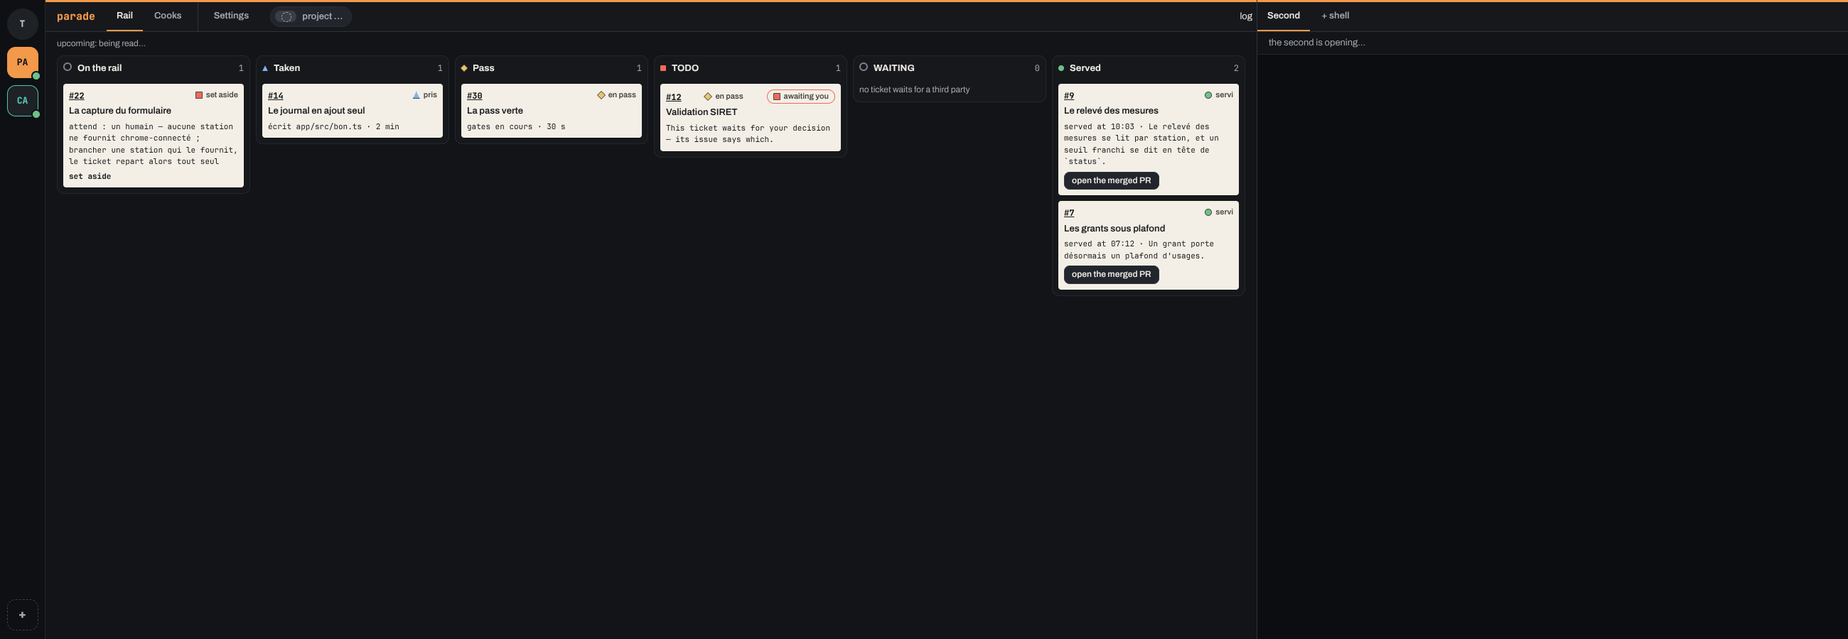
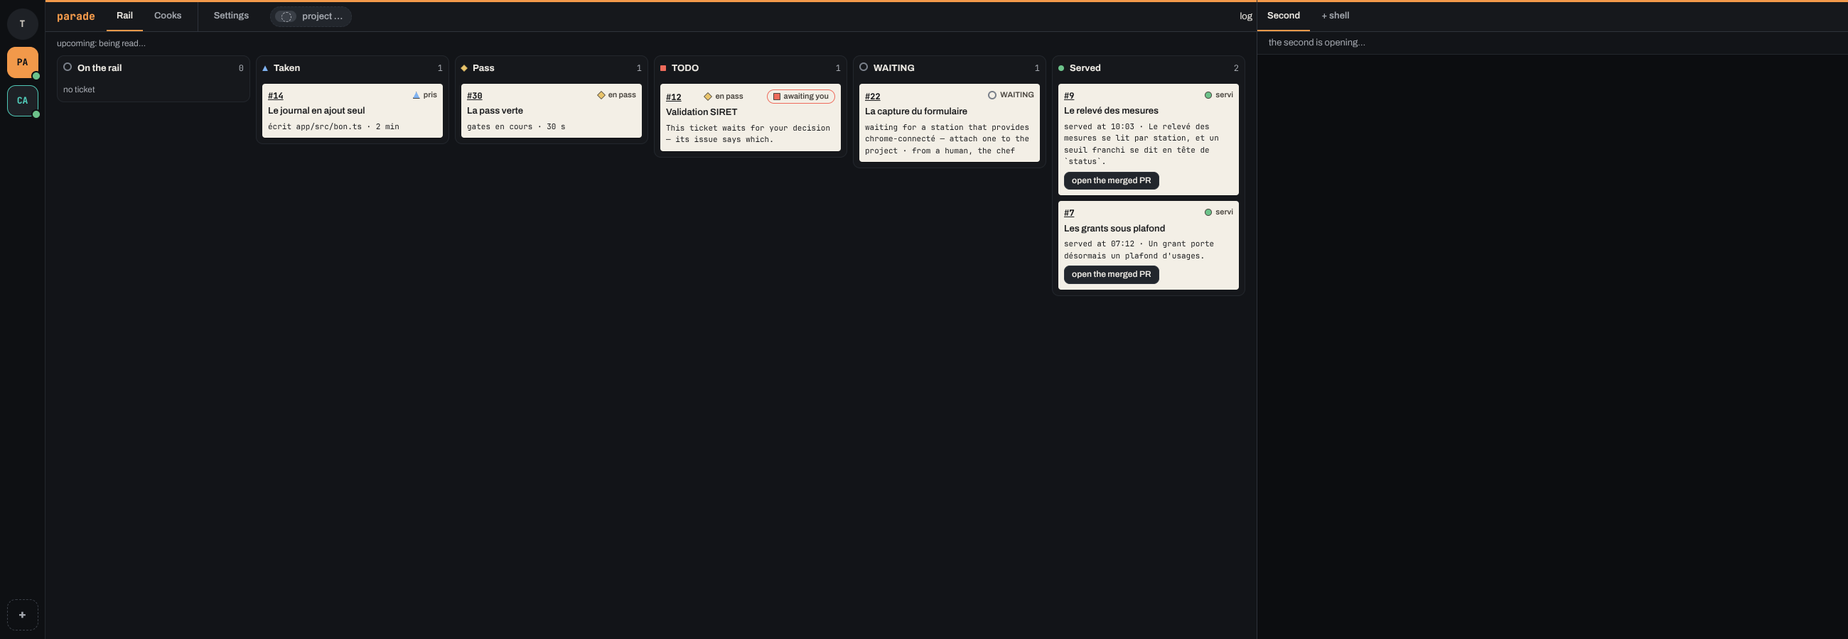
fix(#1752): a card set aside for want of a station reads as WAITING, with what it awaits — the chef's answer to the gesture-is-a-button rule

Changed region(s): [[0.0312, 0.1244, 0.1558, 0.3111], [0.4673, 0.1244, 0.5608, 0.28]]

diff --git a/runtime/src/etat.ts b/runtime/src/etat.ts
@@ -50,7 +50,7 @@ import { arreteeDepuis, cookDeRun, cooksEnCoursDeStation, direDeconnexionEn, dir
 import { avecHorsZoneEn, BLOQUE, BLOQUE_EN, direRetenueEn, EN_WAITING, etatLu, etatLuEn, nomEtat, nomEtatEn } from "./rail.ts";
 import { PAR_LE_CHEF } from "./events/rail.ts";
 import { direAttenteDeTiersEn } from "./attente.ts";
-import { direMiseDeCote } from "./mise-de-cote.ts";
+import { attenteDUneStation, direMiseDeCote } from "./mise-de-cote.ts";
 import { GESTE_DE_STATION_A_CHAUD_EN } from "./stations-declarees.ts";
 import { prendLesOrdinaires } from "./bac-a-sable/ordinaires.ts";
 import type { Refus } from "./projets/refus.ts";
@@ -798,7 +798,10 @@ export type Faits = {
   // `tiers` : pour un ticket en WAITING, ce qu'il attend d'un tiers — `quoi`
   // dans les mots du chef, `qui`, `depuis` (sa mise en attente), `relance` (quand
   // y revenir) et `aLArrivee` (ce que « c'est arrivé » fera de lui) ; nul pour
-  // tout autre ticket ; `revenu` — pour un ticket revenu de WAITING dans TODO,
+  // tout autre ticket. Un ticket mis de côté faute de station y est aussi (1752) :
+  // son attente est une action que le chef ne fait pas par un bouton, brancher une
+  // station ; `relance` est nulle — personne ne l'a posé, rien à reprendre ni à
+  // renvoyer —, et `aLArrivee` dit qu'il repart seul ; `revenu` — pour un ticket revenu de WAITING dans TODO,
   // pourquoi, dans les mots du runtime (« relance du 21/10 : pas de réponse »,
   // « nouveau sur l'issue — de <qui> ») ; `null` pour tout autre, et pour celui que
   // le chef a repris lui-même. `captures` : pour un ticket d'interface en pass
@@ -811,7 +814,7 @@ export type Faits = {
     url: string;
     activite: ActiviteDeTicket | null;
     attente: { raison: string; colonne: string; retour: string | null } | null;
-    tiers: { quoi: string; qui: string; depuis: string; relance: string; aLArrivee: string } | null;
+    tiers: { quoi: string; qui: string; depuis: string; relance: string | null; aLArrivee: string } | null;
     revenu: string | null;
     // Pour le ticket en tête de la file seulement, s'il ne part pas : pourquoi
     // (`zone held by #12 (src)`, `machine saturated`). Nul pour tout autre, et
@@ -1013,18 +1016,27 @@ export function faits(etat: EtatCuisine, maintenant: Date, depot?: string, limit
       livres24h: etat.livres.length,
     },
     dernierEvenement: dernier ? { seq: dernier.seq, at: dernier.at, type: dernier.type, ticket: dernier.ticket } : null,
-    rail: etat.rail.map((ticket) => ({
-      ticket: ticket.ticket,
-      etat: etatLu(ticket),
-      titre: ticket.title,
-      url: ticket.url,
-      activite: etat.activites.get(ticket.ticket) ?? null,
-      attente: ticket.state === "86" ? { raison: direMiseDeCote(ticket.reason), colonne: etatLu(ticket), retour: ticket.until } : null,
-      tiers: ticket.waitingFor === null ? null : { quoi: ticket.waitingFor.what, qui: ticket.waitingFor.who, depuis: ticket.waitingFor.since, relance: ticket.waitingFor.followUp, aLArrivee: ticket.waitingFor.onArrival },
-      revenu: ticket.resumedBecause === null || ticket.resumedBecause === PAR_LE_CHEF ? null : ticket.resumedBecause,
-      raison: raisonDeTete(etat, ticket),
-      ...(ticket.state === "pass" || ticket.state === "served" ? captures(ticket.ticket) : {}),
-    })),
+    rail: etat.rail.map((ticket) => {
+      // Sans station, le ticket se lit en WAITING : ce qu'il attend est une action que le chef ne fait pas par un bouton.
+      const faute = ticket.state === "86" && ticket.waitingFor === null ? attenteDUneStation(ticket.reason) : null;
+      return {
+        ticket: ticket.ticket,
+        etat: faute === null ? etatLu(ticket) : EN_WAITING,
+        titre: ticket.title,
+        url: ticket.url,
+        activite: etat.activites.get(ticket.ticket) ?? null,
+        attente: ticket.state === "86" ? { raison: direMiseDeCote(ticket.reason), colonne: faute === null ? etatLu(ticket) : EN_WAITING, retour: ticket.until } : null,
+        tiers:
+          faute !== null
+            ? { ...faute, depuis: ticket.since, relance: null }
+            : ticket.waitingFor === null
+              ? null
+              : { quoi: ticket.waitingFor.what, qui: ticket.waitingFor.who, depuis: ticket.waitingFor.since, relance: ticket.waitingFor.followUp, aLArrivee: ticket.waitingFor.onArrival },
+        revenu: ticket.resumedBecause === null || ticket.resumedBecause === PAR_LE_CHEF ? null : ticket.resumedBecause,
+        raison: raisonDeTete(etat, ticket),
+        ...(ticket.state === "pass" || ticket.state === "served" ? captures(ticket.ticket) : {}),
+      };
+    }),
     // Une station ne lance un cook que pour un ticket.
     cooks: etat.auxFourneaux.flatMap(({ station, ticket }) =>
       ticket === null ? [] : [{ ticket, titre: titreDe(ticket), station }],

diff --git a/app/src/faits.ts b/app/src/faits.ts
@@ -209,8 +209,9 @@ export type Attente = { raison: string; colonne: string; retour: string | null }
 
 // Ce qu'un ticket en WAITING attend d'un tiers, comme le runtime le donne : `quoi`, dans
 // les mots du chef ; `qui` ; `depuis`, sa mise en attente, et `relance`, quand y revenir,
-// à l'horloge de la box ; `aLArrivee`, ce que « c'est arrivé » fera de lui, en clair.
-export type Tiers = { quoi: string; qui: string; depuis: string; relance: string; aLArrivee: string };
+// à l'horloge de la box ; `aLArrivee`, ce que « c'est arrivé » fera de lui, en clair. Un ticket mis de côté faute de
+// station y est aussi : le chef n'a posé aucune attente, donc `relance` est nulle et la carte n'a rien à reprendre.
+export type Tiers = { quoi: string; qui: string; depuis: string; relance: string | null; aLArrivee: string };
 
 // Une décision du chef qui retient toute la cuisine, comme le runtime la donne
 // (runtime/src/etat.ts, `DecisionUrgente`) : `decision`, ce qui la nomme en tête
@@ -556,7 +557,7 @@ function comprendreTiers(brut: unknown, lequel: string): Tiers {
     quoi: texte(lu.quoi, `${lequel}.quoi`),
     qui: texte(lu.qui, `${lequel}.qui`),
     depuis: heure(lu.depuis, `${lequel}.depuis`),
-    relance: heure(lu.relance, `${lequel}.relance`),
+    relance: ouRien(lu.relance, `${lequel}.relance`, heure),
     aLArrivee: texte(lu.aLArrivee, `${lequel}.aLArrivee`),
   };
 }
@@ -1012,10 +1013,10 @@ export function rail(faits: Faits, attend?: BlocLu, status?: StatusLu, repondues
   const enAttente = (ticket: number): Carte => {
     const connu = connus.get(ticket) as Faits["rail"][number];
     const { tiers, url, titre } = connu;
-    const relance = tiers == null ? 0 : Date.parse(tiers.relance) - Date.parse(faits.lu);
+    const relance = tiers?.relance == null ? 0 : Date.parse(tiers.relance) - Date.parse(faits.lu);
     return {
       ticket,
-      ...ligneEnWaiting(tiers, relance < 0),
+      ...ligneEnWaiting(tiers, tiers?.relance != null && relance < 0),
       ...colore(TONS_DE_TICKET, connu.etat),
       ...(titre === "" ? {} : { titre }),
       ouvrable: ouvrable(url),
@@ -1028,12 +1029,13 @@ export function rail(faits: Faits, attend?: BlocLu, status?: StatusLu, repondues
               { libelle: "waiting for", valeur: tiers.quoi },
               { libelle: "from", valeur: tiers.qui },
               { libelle: "since", valeur: `${instant(tiers.depuis)} — ${avant(tiers.depuis, faits.lu)}` },
-              { libelle: "follow-up", valeur: `${instant(tiers.relance)} — ${relance >= 0 ? `in ${duree(relance)} from the reading` : `passed ${duree(-relance)} before the reading`}` },
+              ...(tiers.relance == null ? [] : [{ libelle: "follow-up", valeur: `${instant(tiers.relance)} — ${relance >= 0 ? `in ${duree(relance)} from the reading` : `passed ${duree(-relance)} before the reading`}` }]),
               { libelle: "on arrival", valeur: tiers.aLArrivee },
             ],
       ...(tiers == null ? { sans: TIERS_PAS_DONNE } : {}),
       fiche: entete({ titre, url, ...sur(connu), ...(lignes === undefined ? {} : { lignes: lignes.get(ticket) ?? [] }) }),
-      gestes: ["attente-reprendre", "attente-arrivee"],
+      // Sans relance, personne n'a posé l'attente : rien à reprendre ni à renvoyer, le ticket repart seul.
+      ...(tiers?.relance === null ? {} : { gestes: ["attente-reprendre" as const, "attente-arrivee" as const] }),
     };
   };
 

diff --git a/scripts/capture-ecran/ecrans/rail-sans-station.ts b/scripts/capture-ecran/ecrans/rail-sans-station.ts
@@ -1,7 +1,8 @@
-// Le rail de « parade » avec #22 mis de côté faute de station (1752) : sa carte, dans la colonne 86, dit qu'il faut un humain,
-// ce qui manque et le geste. Le texte est celui que la box écrit (`direMiseDeCote`), pas un texte recopié.
+// Le rail de « parade » avec #22 mis de côté faute de station (1752) : ce qu'il attend est une action que le chef ne fait
+// pas par un bouton, brancher une station — sa carte est dans WAITING et dit ce qui est attendu, de qui, et qu'il repart
+// seul. Les textes sont ceux que la box écrit (`direMiseDeCote`, `attenteDUneStation`), pas des textes recopiés.
 import type { Faits } from "../../../app/src/faits.ts";
-import { direMiseDeCote } from "../../../runtime/src/mise-de-cote.ts";
+import { attenteDUneStation, direMiseDeCote } from "../../../runtime/src/mise-de-cote.ts";
 import { configuration, cuisine, demarrage, type Ecran, MAINTENANT, type Rendu } from "./commun.ts";
 import { PROJETS, RENDUS } from "./cuisine-figee.ts";
 
@@ -9,12 +10,21 @@ const PARADE = RENDUS.parade as Rendu;
 const ISSUE = (ticket: number) => `https://github.com/chef/parade/issues/${ticket}`;
 
 const [PRIS, , , ...APRES] = PARADE.facts.rail;
+const MOTIF = "no-station: chrome-connecté";
 export const FACTS = {
   ...PARADE.facts,
   compteurs: { ...PARADE.facts.compteurs, rail: 3 },
   rail: [
     PRIS,
-    { ticket: 22, etat: "86", titre: "La capture du formulaire", url: ISSUE(22), activite: null, attente: { raison: direMiseDeCote("no-station: chrome-connecté"), colonne: "86", retour: null }, tiers: null },
+    {
+      ticket: 22,
+      etat: "WAITING",
+      titre: "La capture du formulaire",
+      url: ISSUE(22),
+      activite: null,
+      attente: { raison: direMiseDeCote(MOTIF), colonne: "WAITING", retour: null },
+      tiers: { ...(attenteDUneStation(MOTIF) as NonNullable<ReturnType<typeof attenteDUneStation>>), depuis: "2026-10-13T09:04:12.000Z", relance: null },
+    },
     ...APRES,
   ],
 } as Faits;
@@ -34,7 +44,7 @@ const STATUS = [
 ].join("\n");
 
 export const ecran: Ecran = {
-  dit: "Le rail de « parade » avec #22 mis de côté faute de station : sa carte dit qu'il faut un humain, la capacité qui manque et le geste (1752)",
+  dit: "Le rail de « parade » avec #22 mis de côté faute de station : sa carte, dans WAITING, dit ce qui est attendu : une station qui fournit la capacité, de la part d'un humain (1752)",
   largeur: 2600,
   hauteur: 900,
   etapes: [{ cliquer: '#projets > button[title^="parade — "]' }],

diff --git a/app/test/attente.test.ts b/app/test/attente.test.ts
@@ -182,6 +182,21 @@ describe("le rail en TODO et WAITING", () => {
     assert.match(muette?.sans ?? "", /^not given — this station's runtime does not give in `facts` what it waits for/);
   });
 
+  // Un ticket mis de côté faute de station (1752) : le chef n'a posé aucune attente, le runtime la lit pour lui.
+  test("une carte de WAITING sans relance — un ticket sans station — dit ce qu'elle attend, sans relance ni geste : elle repart seule", () => {
+    const SANS_STATION = { quoi: "a station that provides chrome-connecté — attach one to the project", qui: "a human, the chef", depuis: "2026-10-12T10:04:20.000Z", relance: null, aLArrivee: "the ticket goes back on the rail by itself once a station provides it" };
+    const faits = { ...FAITS, rail: [ticket(22, "WAITING", { attente: { raison: "attend : un humain — aucune station ne fournit chrome-connecté", colonne: "WAITING", retour: null }, tiers: SANS_STATION })], attend: [] };
+    const [carte] = rail(faits).colonnes[4]?.cartes ?? [];
+    assert.deepEqual(carte?.dit?.map(({ libelle }) => libelle), ["waiting for", "from", "since", "on arrival"]);
+    assert.equal(carte?.ligne, "waiting for a station that provides chrome-connecté — attach one to the project · from a human, the chef");
+    assert.equal(carte?.gestes, undefined);
+    assert.equal(carte?.signal, undefined);
+    // La forme lit une relance nulle, et refuse celle qui n'est ni nulle ni une heure.
+    const lu = comprendre(JSON.stringify({ ...faits, rail: [{ ...faits.rail[0] }] }));
+    assert.ok(!("informe" in lu) && lu.rail[0]?.tiers?.relance === null);
+    assert.deepEqual(comprendre(JSON.stringify({ ...faits, rail: [{ ...faits.rail[0], tiers: { ...SANS_STATION, relance: 3 } }] })), { informe: "“rail[0].tiers.relance” is not a time" });
+  });
+
   test("« waiting for… » est sur une carte de TODO que le runtime laisse attendre — pas sur un ticket en pass, ni hors du rail, ni hors de TODO", () => {
     const todo = rail({ ...FAITS, attend: [...(FAITS.attend ?? []), { ticket: 99, titre: "", url: null }] }).colonnes[3]?.cartes ?? [];
     assert.deepEqual(

diff --git a/runtime/src/mise-de-cote.ts b/runtime/src/mise-de-cote.ts
@@ -1,6 +1,7 @@
 // Pourquoi un ticket est mis de côté (86), dit en clair : la raison que le chef
 // lit, et celle que l'app montre sous le ticket. Une cause qui se répète d'un
 // ticket à l'autre n'est pas celle d'un ticket : elle bloque le projet.
+import { manqueDuMotif } from "./capacites.ts";
 import { ATTEND_UN_TIERS, REVENU_D_ATTENTE, STATION_ABSENTE, SANS_STATION } from "./events/rail.ts";
 
 // Les causes qui, répétées à l'identique sur le projet, le bloquent : aucune
@@ -53,4 +54,20 @@ export function direMiseDeCote(motif: string | null): string {
   if (motif.startsWith(`${SANS_STATION}: `)) return `attend : un humain — aucune station ne fournit ${motif.slice(SANS_STATION.length + 2)} ; brancher une station qui le fournit, le ticket repart alors tout seul`;
   if (motif.startsWith(`${STATION_ABSENTE}: `)) return `attend : station absente (${motif.slice(STATION_ABSENTE.length + 2)})`;
   return `attend : mis de côté (${motif})`;
+}
+
+// Un ticket mis de côté faute de station attend une action que le chef ne fait pas par un bouton : brancher une
+// station au projet. Il se lit donc en WAITING (1752), avec ce qu'il attend dit en toutes lettres. Ce n'est pas
+// un WAITING que le chef a posé : le ticket reste 86 au rail, sans relance ni geste, et repart seul quand une
+// station fournit la capacité. Nul pour tout autre motif.
+export type AttenteDUneStation = { quoi: string; qui: string; aLArrivee: string };
+export function attenteDUneStation(motif: string | null): AttenteDUneStation | null {
+  const manque = manqueDuMotif(motif);
+  if (manque === null) return null;
+  const noms = manque.capacites.join(manque.ensemble ? " + " : ", ");
+  return {
+    quoi: `a station that provides ${noms}${manque.ensemble ? " together" : ""} — attach one to the project`,
+    qui: "a human, the chef",
+    aLArrivee: "the ticket goes back on the rail by itself once a station provides it",
+  };
 }

diff --git a/runtime/test/mise-de-cote-humain.test.ts b/runtime/test/mise-de-cote-humain.test.ts
@@ -2,7 +2,7 @@
 // et que le ticket repart quand une station la fournit. Les autres raisons gardent leur texte.
 import assert from "node:assert/strict";
 import test from "node:test";
-import { direMiseDeCote } from "../src/mise-de-cote.ts";
+import { attenteDUneStation, direMiseDeCote } from "../src/mise-de-cote.ts";
 
 test("no-station : il faut un humain, la capacité manquante, le geste, et le ticket repartira", () => {
   const dit = direMiseDeCote("no-station: chrome-connecté");
@@ -25,4 +25,19 @@ test("les autres raisons gardent leur texte", () => {
   assert.equal(direMiseDeCote("pass:still-red"), "attend : la pass le trouve encore rouge");
   assert.equal(direMiseDeCote("station-absent: m1"), "attend : station absente (m1)");
   assert.equal(direMiseDeCote("autre"), "attend : mis de côté (autre)");
+});
+
+test("sans station, le ticket attend une action que le chef ne fait pas par un bouton : il se lit en WAITING, avec ce qu'il attend", () => {
+  const une = attenteDUneStation("no-station: chrome-connecté");
+  assert.deepEqual(une, {
+    quoi: "a station that provides chrome-connecté — attach one to the project",
+    qui: "a human, the chef",
+    aLArrivee: "the ticket goes back on the rail by itself once a station provides it",
+  });
+  assert.match(attenteDUneStation("no-station: code, navigateur")?.quoi ?? "", /^a station that provides code, navigateur — /);
+  assert.match(attenteDUneStation("no-station: code + navigateur")?.quoi ?? "", /^a station that provides code \+ navigateur together — /);
+});
+
+test("les autres motifs n'attendent pas une station : rien à lire en WAITING", () => {
+  for (const motif of [null, "", "quota", "pass:still-red", "station-absent: m1", "third-party", "autre"]) assert.equal(attenteDUneStation(motif), null, String(motif));
 });

diff --git a/runtime/test/faits.test.ts b/runtime/test/faits.test.ts
@@ -138,6 +138,23 @@ test("un ticket d'interface en pass, puis livré, porte les captures de sa derni
   assert.equal("captures" in (servis.find(({ ticket }) => ticket === 14) ?? {}), false);
 });
 
+test("un ticket mis de côté faute de station se lit en WAITING : ce qu'il attend, de qui, sans relance — un autre 86 reste 86", (t) => {
+  const { noter, arriver, journal, lire } = cuisine(t);
+  const rail = ouvrirRail(journal, { projet: "brigade", dureeBailMs: 600_000, maintenant: () => new Date(`${JOUR_HORLOGE}T10:00:30.000Z`) });
+  arriver(14, 1);
+  arriver(15, 1);
+  rail.quatreVingtSix(14, { motif: "no-station: chrome-connecté" });
+  rail.quatreVingtSix(15, { motif: "quota" });
+  noter({ type: "runtime.ticked", payload: { intervalMs: 60_000 } });
+  const [sans, autre] = lire(`${JOUR_HORLOGE}T10:04:11.000Z`).forme.rail;
+  assert.deepEqual([sans?.ticket, sans?.etat, sans?.attente?.colonne, sans?.tiers?.relance], [14, "WAITING", "WAITING", null]);
+  assert.equal(sans?.tiers?.quoi, "a station that provides chrome-connecté — attach one to the project");
+  assert.equal(sans?.tiers?.qui, "a human, the chef");
+  assert.equal(sans?.tiers?.aLArrivee, "the ticket goes back on the rail by itself once a station provides it");
+  assert.match(sans?.attente?.raison ?? "", /humain/);
+  assert.deepEqual([autre?.ticket, autre?.etat, autre?.attente?.colonne, autre?.tiers], [15, "86", "86", null]);
+});
+
 test("un ticket du rail qui attend garde l'adresse et le titre du rail, quel que soit le dépôt", (t) => {
   const { noter, journal } = cuisine(t);
   noter({ type: "ticket.arrived", payload: { title: "Ticket 18", priority: 1, createdAt: "2026-10-01T00:00:18Z", url: "https://exemple.test/18", card: { waitsFor: [12], zone: [], problems: [] } } }, 18, "github");

diff --git a/docs/runtime/etat-et-mesures.md b/docs/runtime/etat-et-mesures.md
@@ -172,7 +172,7 @@ The titles, summaries and findings in the example are ticket and reviewer text.)
 | `compteurs.attend` | The decisions that await you: the figure on the head line of `status`'s `awaiting` block |
 | `compteurs.livres24h` | The tickets served in the 24 h before `lu` — merged by the pass, merged by hand, or served without merge —, still on the rail or not. A ticket counts once |
 | `dernierEvenement` | `seq`, `at`, `type` and `ticket` (`null` off ticket) of the last of `status`'s "latest events": neither heartbeat nor reading. Without its payload. `null` on an empty log |
-| `rail` | Each ticket, in service order: `ticket`, `etat`, `titre`, `url` (its issue), `activite` — what the kitchen is doing with it right now: `fait` (the gesture, in the chef's words), `cible` (the file or command it aims at, `null` if it aims at none), `depuis` (the time it started on it). **`null` for a ticket neither taken nor in pass, and for one the runtime does not know what is being done with.** See "What a cook is doing right now"; `attente` — for a ticket set aside (86), **what it waits for**: `raison` in plain words (`attend : setup du projet impossible`, `attend : quota du compte épuisé`, `attend : worktree impossible à préparer`…), `colonne` (the one it is in, like `etat`) and `retour` (the time of its return, `null` without); `null` for any other ticket; `tiers` — for a ticket in WAITING (`etat`: `WAITING`), **what it awaits from a third party**: `quoi` (in the chef's words), `qui`, `depuis` (its being put on hold), `relance` (when to come back to it) and `aLArrivee` (what "it has arrived" will make of it, in plain words); `null` for any other ticket; `revenu` — for a ticket come back from WAITING into TODO, **why**, in the runtime's words: `relance du 21/10 : pas de réponse` or `nouveau sur l'issue — de <qui>`; `null` for any other, and for a ticket the chef picked up themself; `raison` — **for the ticket at the top of the queue only** (the first queued one, in the order the rail serves it), why it does not leave: `zone held by #12 (runtime/src)`, `awaiting #7`, or `machine saturated` when every station is; `null` for any other ticket, and for the top one when it leaves; `captures` — **for an interface ticket in pass or served**, the screen before and after of its last delivery (see "Looking at an interface delivery in my browser"): `complet` (each screen has its two captures — `false` also when there is none) and `ecrans`, each with `ecran`, `avant` and `apres`, the address of the capture at the delivered commit, `null` when the cook did not deliver it. **Absent for any other ticket**, and when the box does not know its repository |
+| `rail` | Each ticket, in service order: `ticket`, `etat`, `titre`, `url` (its issue), `activite` — what the kitchen is doing with it right now: `fait` (the gesture, in the chef's words), `cible` (the file or command it aims at, `null` if it aims at none), `depuis` (the time it started on it). **`null` for a ticket neither taken nor in pass, and for one the runtime does not know what is being done with.** See "What a cook is doing right now"; `attente` — for a ticket set aside (86), **what it waits for**: `raison` in plain words (`attend : setup du projet impossible`, `attend : quota du compte épuisé`, `attend : worktree impossible à préparer`…), `colonne` (the one it is in, like `etat`) and `retour` (the time of its return, `null` without); `null` for any other ticket; `tiers` — for a ticket in WAITING (`etat`: `WAITING`), **what it awaits from a third party**: `quoi` (in the chef's words), `qui`, `depuis` (its being put on hold), `relance` (when to come back to it) and `aLArrivee` (what "it has arrived" will make of it, in plain words); `null` for any other ticket. **A ticket set aside `no-station` is read as WAITING too** (#1752): what it awaits is an action the chef does not do with a button, attach a station to the project. Its `etat` and `attente.colonne` say `WAITING`, `quoi` says `a station that provides <capability> — attach one to the project`, `qui` `a human, the chef`, `depuis` the time it was set aside, and **`relance` is `null`** — nobody put it on hold, so there is nothing to resume or send back; `aLArrivee` says it goes back on the rail by itself once a station provides the capability. It stays 86 in the log and in `status`; `revenu` — for a ticket come back from WAITING into TODO, **why**, in the runtime's words: `relance du 21/10 : pas de réponse` or `nouveau sur l'issue — de <qui>`; `null` for any other, and for a ticket the chef picked up themself; `raison` — **for the ticket at the top of the queue only** (the first queued one, in the order the rail serves it), why it does not leave: `zone held by #12 (runtime/src)`, `awaiting #7`, or `machine saturated` when every station is; `null` for any other ticket, and for the top one when it leaves; `captures` — **for an interface ticket in pass or served**, the screen before and after of its last delivery (see "Looking at an interface delivery in my browser"): `complet` (each screen has its two captures — `false` also when there is none) and `ecrans`, each with `ecran`, `avant` and `apres`, the address of the capture at the delivered commit, `null` when the cook did not deliver it. **Absent for any other ticket**, and when the box does not know its repository |
 | `cooks` | The cooks in progress, those `station` shows under "cooks en cours", in its order — station by station, the oldest first: `ticket`, `titre` (the ticket's), `station`. An empty list when none is running. The title is the rail's: empty (`""`) if the ticket left it during the cooking |
 | `attend` | The tickets that `status`'s `awaiting` block names, one per entry, in the block's order: `ticket`, `titre`, `url`. **It is the address that opens the issue**: the rail's for a ticket that is on it, otherwise the one **the box's repository** gives (`BRIGADE_GITHUB_REPO`) — the app composes none. The title is the rail's, **empty (`""`) for an issue that is not on it**: the log does not know it, and nothing goes to fetch it. `url` is `null` when the box does not know its repository. The Max connection, the version, the requested closing pass, the red base and the blocked setup, which belong to no ticket, are not in it — `compteurs.attend` counts them. An empty list when nothing awaits |
 | `livres` | The tickets served in the 24 h before `lu` — **those `compteurs.livres24h` counts, one for one** —, the most recent first: `ticket`, `titre`, `url` (its issue), `livre` (the time of its service), `station` (the one that cooked it, `null` when none sent it to the pass — merged by hand with no cook, delivery off the rail), `pr` (the merged PR, `null` for a ticket served without merge), `relecture` (what the reviewer said of **what was served**, word for word: `resume`, its summary; `constats`, in its order, each with `gravite` — `remarque` or `bloquant` —, `fichier` — `null` when it names none — and `constat`, its text; a deletion it asks for is a `remarque` whose text starts with "À supprimer : "). `relecture` is `null` when no readable review concerns the served delivery: merged by hand without going through the pass, served without review, reviewed on a commit from before the one the pass last judged, or whose last review cannot be read — **nothing is put in its place**, not even a review of an earlier delivery. A red review merged by hand by the chef is theirs: its blocking findings are in it. **A ticket stays in it after its issue is closed**: it left the rail, not the list — it is reread in the log, title and address included. The title is the day's, empty (`""`) for a delivery the rail never carried; `url` is then the one the box's repository gives, or `null`. **An issue closed without having been served** — dropped, set aside — **is not in it**. `captures`: as on the rail, for an interface ticket — absent for any other. An empty list when nothing was served in 24 h |

diff --git a/docs/runtime/station.md b/docs/runtime/station.md
@@ -415,6 +415,8 @@ corrected by hand like the rest. Most tickets ask for none.
   somewhere, never together), with no return time. **No cook is launched**, no worktree prepared;
   the other tickets leave, and it does not hold its zone. Its issue receives a comment that names
   what is missing and the declared stations.
+  The app reads it as a WAITING card — it awaits an action the chef does not do with a button — that says
+  what it waits for (`facts`: `rail[].tiers`, `relance` `null`); the ticket itself stays 86.
 - **The manager takes it up before the chef** (manager on). It rewrites or re-splits the ticket so
   that it no longer needs the capability: `manager.capability-resplit` in the log, the ticket
   leaves the rail (86 `manager:split`), its sub-tickets are born like an epic's, and nothing
